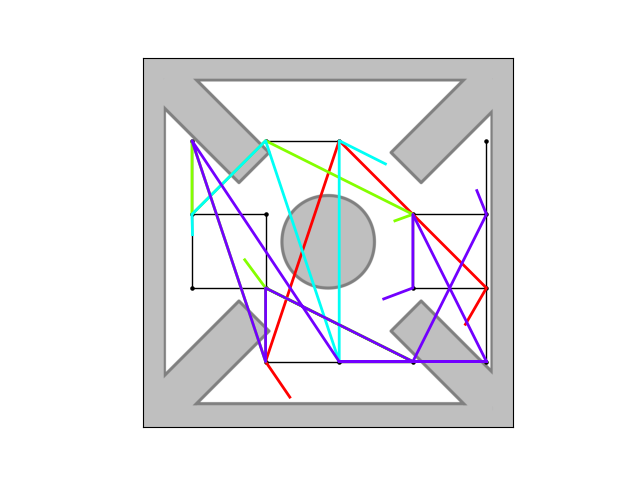
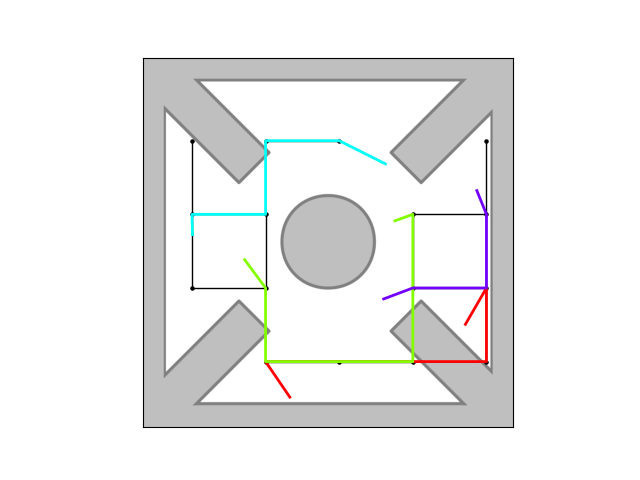
correct planning in grids

Changed region(s): [[0.375, 0.2812, 0.7812, 0.7812], [0.2812, 0.2812, 0.4062, 0.5938]]

diff --git a/multi_optim/comparative_evaluation.py b/multi_optim/comparative_evaluation.py
@@ -9,8 +9,8 @@ import networkx as nx
 import numpy as np
 import torch
 import yaml
-from definitions import (FREE, IDX_AVERAGE_LENGTH, IDX_SUCCESS, INVALID, PATH,
-                         POS)
+from definitions import (FREE, IDX_AVERAGE_LENGTH, IDX_SUCCESS, INVALID,
+                         OBSTACLE, PATH, POS)
 from matplotlib import pyplot as plt
 from planner.dhc.eval import eval as dhc_eval
 from planner.policylearn.edge_policy import EdgePolicyModel
@@ -48,7 +48,7 @@ def make_dhcmap_with_n_nodes_on_img(n_nodes, map_img, rng: Random):
     n_nodes_free = 0
     max_tries_per_size = 100
     try_nr = 0
-    pos_s = None
+    pos_s_grid = None
     while n_nodes_free < n_nodes:
         if try_nr > max_tries_per_size:
             n_rows_cols += 1
@@ -58,9 +58,9 @@ def make_dhcmap_with_n_nodes_on_img(n_nodes, map_img, rng: Random):
         size = res * (n_rows_cols - 1)
         origin = np.array([rng.uniform(0, 1.0 - size),
                           rng.uniform(0, 1.0 - size)])
-        pos_s = gridmap_from_origin_and_size(origin, size, n_rows_cols)
+        pos_s_grid = gridmap_from_origin_and_size(origin, size, n_rows_cols)
         n_nodes_free = 0
-        for pos in pos_s:
+        for pos in pos_s_grid:
             if is_coord_free(map_img, pos):
                 n_nodes_free += 1
         logger.debug(f"{origin=}")
@@ -75,9 +75,9 @@ def make_dhcmap_with_n_nodes_on_img(n_nodes, map_img, rng: Random):
         size = res * (n_rows_cols - 1)
         origin = np.array([rng.uniform(0, 1.0 - size),
                           rng.uniform(0, 1.0 - size)])
-        pos_s = gridmap_from_origin_and_size(origin, size, n_rows_cols)
+        pos_s_grid = gridmap_from_origin_and_size(origin, size, n_rows_cols)
         n_nodes_free = 0
-        for pos in pos_s:
+        for pos in pos_s_grid:
             if is_coord_free(map_img, pos):
                 n_nodes_free += 1
         logger.debug(f"{origin=}")
@@ -86,30 +86,31 @@ def make_dhcmap_with_n_nodes_on_img(n_nodes, map_img, rng: Random):
         logger.debug(f"{n_rows_cols=}")
         logger.debug(f"{n_nodes_free=}")
         logger.debug(f"------------------")
-    assert pos_s is not None
+    assert pos_s_grid is not None
     pos_out = []
     nodes_out = []
     edgelist_out = []
-    gridmap = np.ones((n_rows_cols, n_rows_cols))
+    gridmap = np.full((n_rows_cols, n_rows_cols),
+                      OBSTACLE, dtype=np.int8)
     coords_from_node = []
-    for n, pos in enumerate(pos_s):
+    for n, pos in enumerate(pos_s_grid):
         if is_coord_free(map_img, pos):
             pos_out.append(pos)
             nodes_out.append(n)
-            x = nodes_out.index(n) % n_rows_cols
-            y = nodes_out.index(n) // n_rows_cols
+            x = n % n_rows_cols
+            y = n // n_rows_cols
             gridmap[x, y] = FREE
             coords_from_node.append((x, y))
             # check edge left
             if n > 0:
-                if check_edge(pos_s, map_img, n, n-1):
+                if check_edge(pos_s_grid, map_img, n, n-1):
                     edgelist_out.append(
                         (nodes_out.index(n),
                          nodes_out.index(n-1))
                     )
             # check edge up
             if n >= n_rows_cols:
-                if check_edge(pos_s, map_img, n, n-n_rows_cols):
+                if check_edge(pos_s_grid, map_img, n, n-n_rows_cols):
                     edgelist_out.append(
                         (nodes_out.index(n),
                          nodes_out.index(n-n_rows_cols))

diff --git a/planner/dhc/eval.py b/planner/dhc/eval.py
@@ -14,6 +14,8 @@ def eval(env, starts, goals):
         os.remove(fname)
     if res is None:
         return INVALID
+    elif res[0] is None:
+        return INVALID
     elif res[0][0] == False:
         return INVALID
     else:
